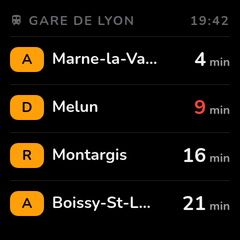
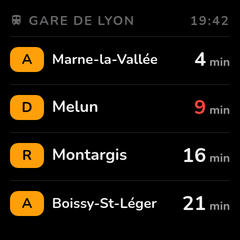
docs: gallery templates pass entity-driven text through fit()
Every name, state, title and attribute the gallery prints goes through
fit(), with max at the size the design was drawn at, so mock data
renders as before. The two character-count truncations (record title,
departure destinations) become measured: the board now shows
"Marne-la-Vallée" in full instead of "Marne-la-Va…". Activity rings'
"486 kcal" no longer runs off the cell in the Minimal theme.

Claude-Session: https://claude.ai/code/session_01HcgkVgkTFbq1t9jg78tEMt

Changed region(s): [[0.2042, 0.2042, 0.6708, 0.2917], [0.2042, 0.8167, 0.6708, 0.875]]

diff --git a/scripts/html_examples/weather_glass.html b/scripts/html_examples/weather_glass.html
@@ -26,12 +26,12 @@
 <div class="scene"></div>
 <div class="sun"></div>
 <div class="head">
-  <div class="city">{{ name | upper }}</div>
+  <div class="city">{{ fit(name | upper, width=204, max=13, min=10, weight=800, tracking=0.14) }}</div>
   <div class="temp">{{ t | round | int }}&deg;</div>
-  <div class="cond">{{ states('weather.nice') | capitalize }} · feels {{ state_attr('weather.nice', 'apparent_temperature') | round | int }}&deg;</div>
+  <div class="cond">{{ fit((states('weather.nice') | capitalize) ~ ' · feels ' ~ (state_attr('weather.nice', 'apparent_temperature') | round | int) ~ '°', width=204, max=16, min=11, weight=700) }}</div>
 </div>
 <div class="glass">
   <div class="stat"><span class="icon">&#xF058E;</span><b>{{ state_attr('weather.nice', 'humidity') }}%</b><span>HUMID</span></div>
   <div class="stat"><span class="icon">&#xF059D;</span><b>{{ state_attr('weather.nice', 'wind_speed') | round | int }}</b><span>KM/H</span></div>
-  <div class="stat"><span class="icon">&#xF0599;</span><b>{{ states('sensor.uv_index') }}</b><span>UV</span></div>
+  <div class="stat"><span class="icon">&#xF0599;</span><b>{{ fit(states('sensor.uv_index'), width=64, max=17, min=10, weight=800) }}</b><span>UV</span></div>
 </div>

diff --git a/scripts/html_examples/departures.html b/scripts/html_examples/departures.html
@@ -14,12 +14,12 @@
 .late { color: var(--error); }
 </style>
 <div class="board">
-  <div class="head"><span><span class="icon">&#xF052C;</span> {{ name | upper }}</span>
+  <div class="head"><span><span class="icon">&#xF052C;</span> {{ fit(name | upper, width=150, max=13, min=10, weight=700, tracking=0.08) }}</span>
     <span>{{ now.strftime('%H:%M') }}</span></div>
   {% for d in state_attr('sensor.next_trains', 'departures')[:4] %}
   <div class="row">
     <span class="line">{{ d.line }}</span>
-    <span class="dest">{{ d.destination | truncate(12, true, '…', 0) }}</span>
+    <span class="dest">{{ fit(d.destination, width=110, max=16, min=12, weight=600) }}</span>
     <span class="min {{ 'late' if d.delay }}">{{ d.minutes }}<small> min</small></span>
   </div>
   {% endfor %}

diff --git a/scripts/html_examples/anim_lava.html b/scripts/html_examples/anim_lava.html
@@ -18,4 +18,4 @@
      background: radial-gradient(circle, rgba(10,132,255,0.9) 0%, rgba(10,132,255,0) 70%)"></div>
 <div class="blob" style="left: 20px; top: 110px; width: 160px; height: 160px; animation: c 2s ease-in-out infinite;
      background: radial-gradient(circle, rgba(191,90,242,0.85) 0%, rgba(191,90,242,0) 70%)"></div>
-<div class="read"><span>{{ name | upper }}</span><b>{{ state }}&deg;</b><em>{{ states('sensor.living_humidity') }}% humidity</em></div>
+<div class="read"><span>{{ fit(name | upper, width=220, max=14, min=10, weight=800, tracking=0.2) }}</span><b>{{ fit(state ~ '°', width=220, max=88, min=24, weight=800, tracking=-0.04) }}</b><em>{{ fit(states('sensor.living_humidity') ~ '% humidity', width=220, max=15, min=11, weight=700) }}</em></div>

diff --git a/scripts/html_examples/tw_control_center.html b/scripts/html_examples/tw_control_center.html
@@ -2,8 +2,8 @@
 <div class="flex flex-col justify-between rounded-2xl p-2.5 {{ 'bg-%s/15 ring-1 ring-%s/50' % (role, role) if on else 'bg-chip' }}">
   {{ icon(glyph, role if on else 'muted', 24) }}
   <div class="leading-none">
-    <div class="text-[13px] font-extrabold {{ 'text-fg' if on else 'text-fg-2' }}">{{ label }}</div>
-    <div class="mt-1 text-[11px] font-bold {{ 'text-' ~ role if on else 'text-fg-3' }}">{{ detail }}</div>
+    <div class="text-[13px] font-extrabold {{ 'text-fg' if on else 'text-fg-2' }}">{{ fit(label, width=48, max=13, min=9, weight=800) }}</div>
+    <div class="mt-1 text-[11px] font-bold {{ 'text-' ~ role if on else 'text-fg-3' }}">{{ fit(detail, width=48, max=11, min=8, weight=700) }}</div>
   </div>
 </div>
 {% endmacro %}

diff --git a/scripts/html_examples/anim_vinyl.html b/scripts/html_examples/anim_vinyl.html
@@ -34,8 +34,8 @@
 <div class="pivot"></div><div class="arm"></div>
 <div class="meta">
   <div>
-    <div class="title">{{ state_attr('media_player.living_room', 'media_title') | truncate(16, true, '…', 0) }}</div>
-    <div class="artist">{{ state_attr('media_player.living_room', 'media_artist') }}</div>
+    <div class="title">{{ fit(state_attr('media_player.living_room', 'media_title'), width=160, max=18, min=13, weight=800) }}</div>
+    <div class="artist">{{ fit(state_attr('media_player.living_room', 'media_artist'), width=160, max=13, min=11, weight=600) }}</div>
   </div>
   <div class="bars">
     {% for d in [0, -0.35, -0.7, -0.15, -0.5] %}<i style="animation-delay: {{ d }}s"></i>{% endfor %}

diff --git a/scripts/html_examples/tw_alarm.html b/scripts/html_examples/tw_alarm.html
@@ -10,7 +10,7 @@
     </div>
   </div>
   <div class="text-center leading-none">
-    <div class="text-[26px] font-extrabold tracking-[0.04em] text-{{ role }}">{{ alarm.replace('armed_', 'armed ').replace('_', ' ') | upper }}</div>
+    <div class="text-[26px] font-extrabold tracking-[0.04em] text-{{ role }}">{{ fit(alarm.replace('armed_', 'armed ').replace('_', ' ') | upper, width=216, max=26, min=14, weight=800, tracking=0.04) }}</div>
     <div class="mt-1.5 text-[13px] font-bold text-fg-3">{{ sensors | rejectattr(1) | list | length }} of {{ sensors | length }} sensors clear</div>
   </div>
   <div class="flex w-full gap-1.5">

diff --git a/scripts/html_examples/anim_washer.html b/scripts/html_examples/anim_washer.html
@@ -28,7 +28,7 @@
 .fill { height: 8px; border-radius: 4px; background: #0a84ff; width: {{ pct }}%; }
 </style>
 <div class="body"></div>
-<div class="panel"><span>{{ name | upper }}</span><span class="led">&#9679; {{ states('sensor.washer_phase') | upper }}</span></div>
+<div class="panel"><span>{{ fit(name | upper, width=100, max=11, min=9, weight=800, tracking=0.14) }}</span><span class="led">{{ fit('● ' ~ states('sensor.washer_phase') | upper, width=100, max=11, min=9, weight=800, tracking=0.14) }}</span></div>
 <div class="c rim"></div>
 <div class="c glass">
   <div class="drum">

diff --git a/scripts/html_examples/air_quality.html b/scripts/html_examples/air_quality.html
@@ -20,7 +20,7 @@
          font-weight: 600; color: var(--text-tertiary); }
 </style>
 <div class="aq">
-  <div class="top"><span class="icon" style="font-size: 20px">&#xF07E4;</span>{{ name | upper }}</div>
+  <div class="top"><span class="icon" style="font-size: 20px">&#xF07E4;</span>{{ fit(name | upper, width=176, max=14, min=10, weight=700, tracking=0.08) }}</div>
   <div class="v">{{ co2 | int }}<small> ppm</small></div>
   <div class="badge">{{ level[1] }}</div>
   <div><div class="scale"><div class="mark"></div></div>

diff --git a/scripts/html_examples/room_bars.html b/scripts/html_examples/room_bars.html
@@ -17,7 +17,7 @@
   {% set t = value | float(0) %}
   {% set color = 'var(--info)' if t < 19 else ('var(--success)' if t < 23 else 'var(--warning)') %}
   <div class="r">
-    <span class="n">{{ label }}</span>
+    <span class="n">{{ fit(label, width=62, max=14, min=10, weight=600) }}</span>
     <div class="track"><div class="fill" style="width: {{ [[(t - 15) * 10, 4] | max, 100] | min }}%; background: {{ color }}"></div></div>
     <span class="t" style="color: {{ color }}">{{ t }}</span>
   </div>

diff --git a/scripts/html_examples/anim_rain.html b/scripts/html_examples/anim_rain.html
@@ -44,4 +44,4 @@
 <div class="bolt"><svg viewBox="0 0 40 80" style="width: 54px">
   <path d="M24 0 L6 44 L18 44 L10 80 L36 30 L22 30 L32 0 Z" fill="#fff6c2"/></svg></div>
 <div class="read"><b>{{ t | round | int }}&deg;</b>
-  <span>{{ name }} · Thunderstorm {{ state_attr('weather.london', 'precipitation_probability') }}%</span></div>
+  <span>{{ fit(name ~ ' · Thunderstorm ' ~ state_attr('weather.london', 'precipitation_probability') ~ '%', width=208, max=14, min=10, weight=700) }}</span></div>

diff --git a/scripts/html_examples/presence.html b/scripts/html_examples/presence.html
@@ -21,7 +21,7 @@
   {% for st, label in people %}
     <div class="p {{ 'in' if st == 'home' else 'out' }}">
       <div class="av">{{ label[0] }}</div>
-      <div class="s">{{ 'HOME' if st == 'home' else ('AWAY' if st == 'not_home' else st | upper) }}</div>
+      <div class="s">{{ fit('HOME' if st == 'home' else ('AWAY' if st == 'not_home' else st | upper), width=100, max=12, min=9, weight=700, tracking=0.06) }}</div>
     </div>
   {% endfor %}
   </div>

diff --git a/scripts/html_examples/ev_charge.html b/scripts/html_examples/ev_charge.html
@@ -22,5 +22,5 @@
     <div class="pct">{{ pct | round | int }}<small>%</small></div>
     <div class="state">{{ 'CHARGING<br>' ~ states('sensor.car_charge_power') ~ ' kW' if charging else 'PLUGGED IN' }}</div>
   </div></div>
-  <div class="range">{{ states('sensor.car_range') }} km range</div>
+  <div class="range">{{ fit(states('sensor.car_range') ~ ' km range', width=220, max=18, min=12, weight=600) }}</div>
 </div>
